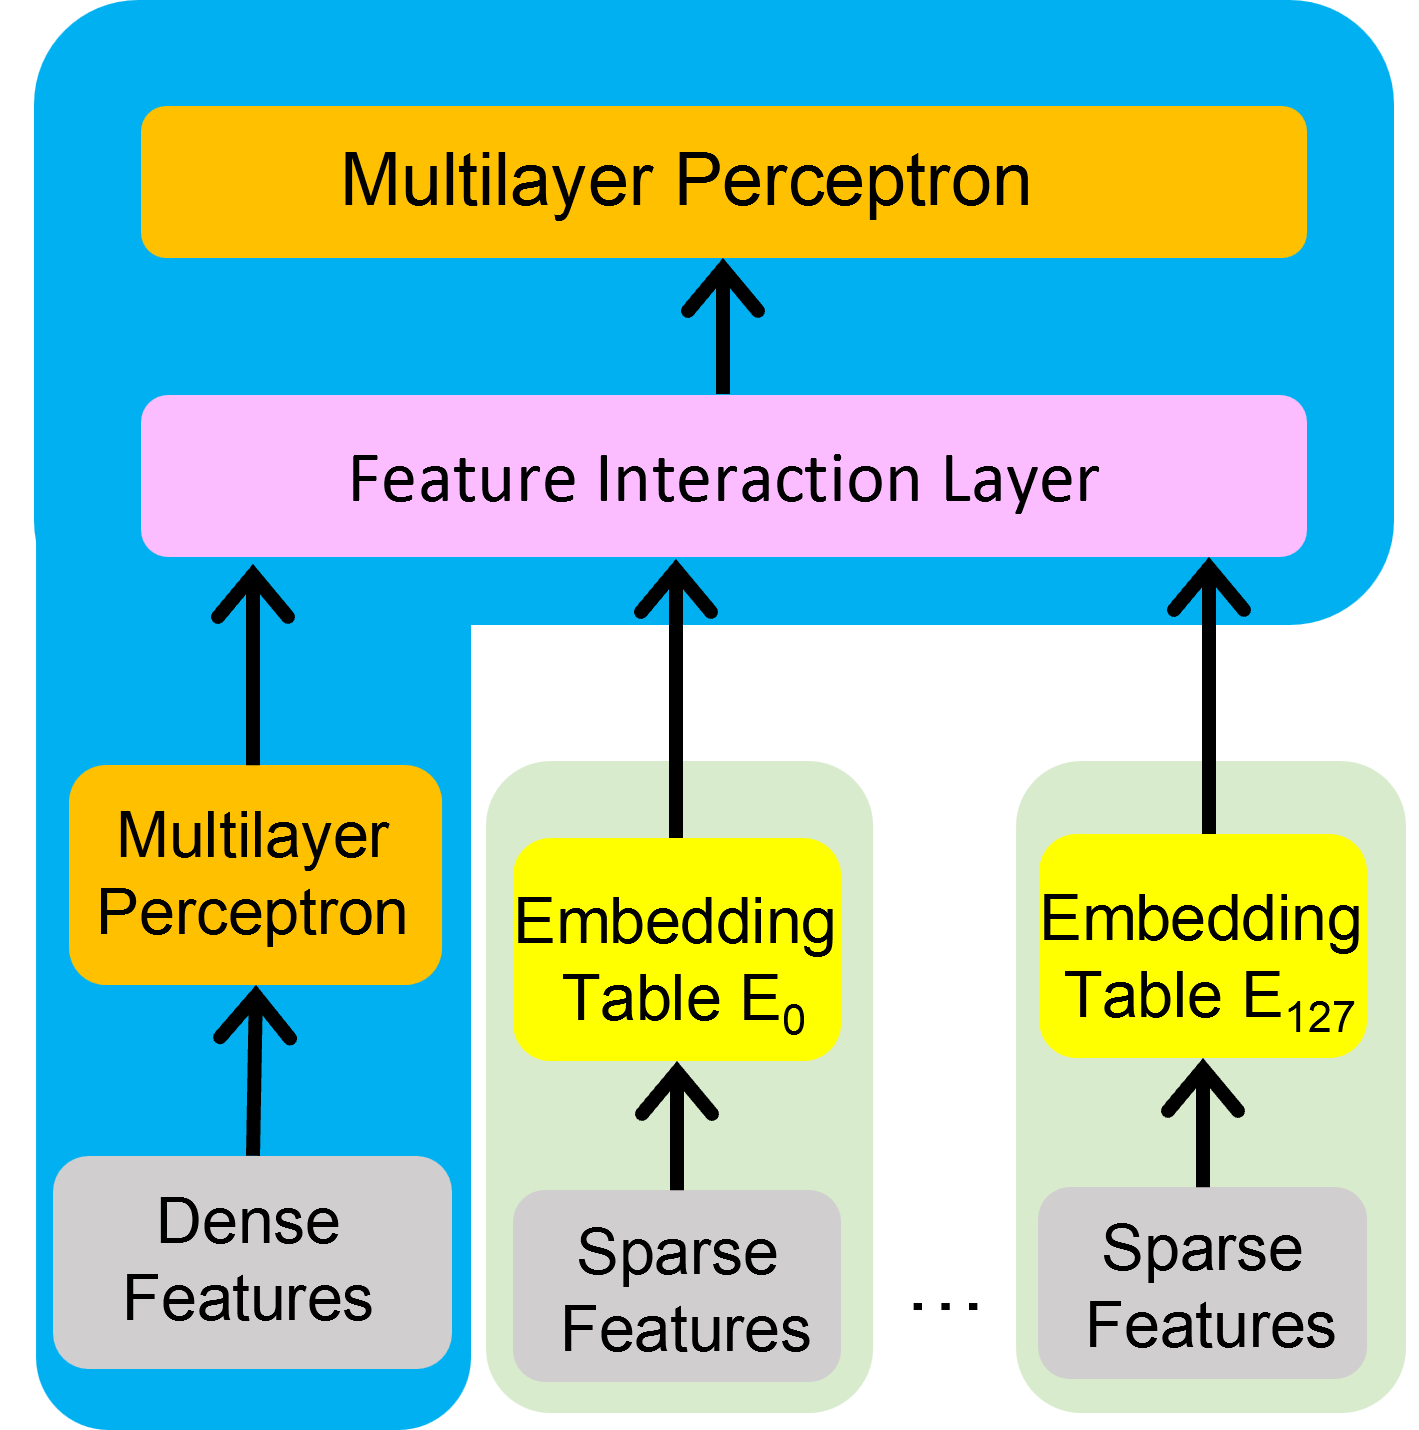
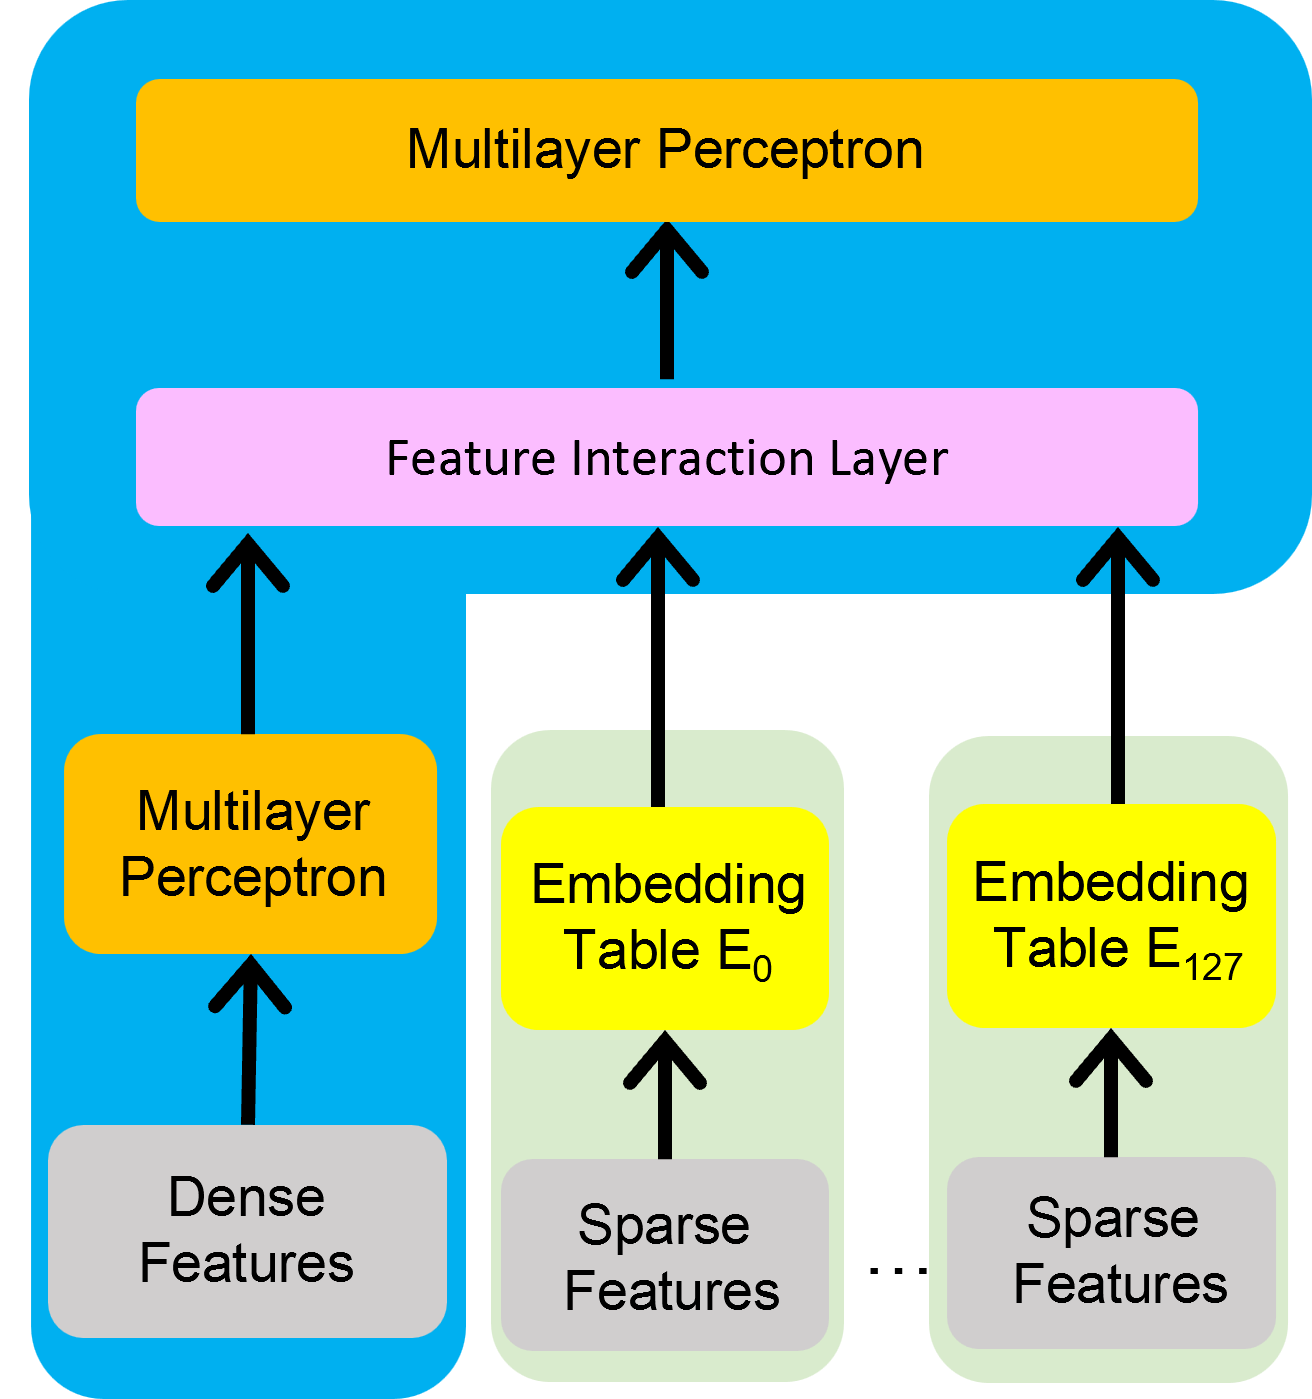
Font adjustment

diff --git a/_site/demo/DLRM-128-8/index.html b/_site/demo/DLRM-128-8/index.html
@@ -92,7 +92,7 @@
     }
   
     #image img {
-      max-width: 75%;
+      max-width: 66%;
       height: auto;
     }
   </style>
@@ -135,7 +135,7 @@
     <div id="iter_time" style="border: 4px solid rgba(2, 76, 89, 0.852); width:700px; margin:0 auto;">
       <p><b>Fat-Tree iteration time: 132.6 ms</b></p></div><br>
     <div id="iter_time" style="border: 4px solid rgba(2, 76, 89, 0.852); width:700px; margin:0 auto;">
-      <p><b>Speed up: 3</b></p></div>
+      <p><b>TopoOpt speed up: 3x</b></p></div>
     <script>
       // Get references to the form and its elements
       const form = document.getElementById('menu-form');

diff --git a/_site/demo/NCF-128-4/index.html b/_site/demo/NCF-128-4/index.html
@@ -135,7 +135,7 @@
     <div id="iter_time" style="border: 4px solid rgba(2, 76, 89, 0.852); width:700px; margin:0 auto;">
       <p><b>Fat-Tree iteration time: 119.0 ms</b></p></div><br>
     <div id="iter_time" style="border: 4px solid rgba(2, 76, 89, 0.852); width:700px; margin:0 auto;">
-      <p><b>Speed up: 2</b></p></div>
+      <p><b>TopoOpt speed up: 2x</b></p></div>
     <script>
       // Get references to the form and its elements
       const form = document.getElementById('menu-form');
